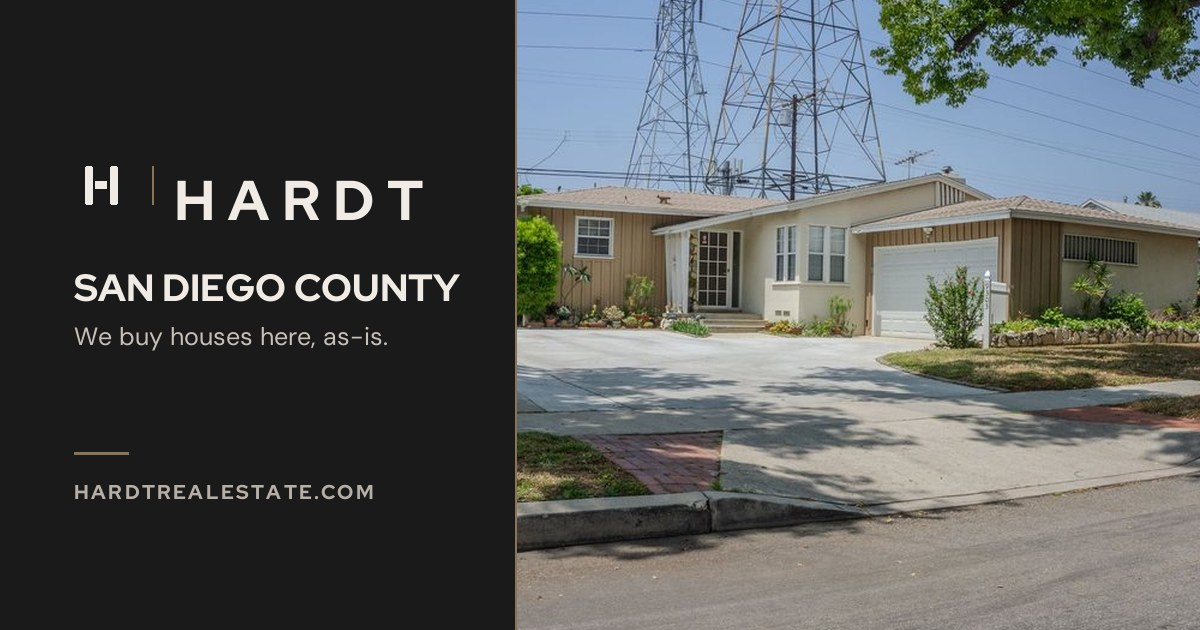
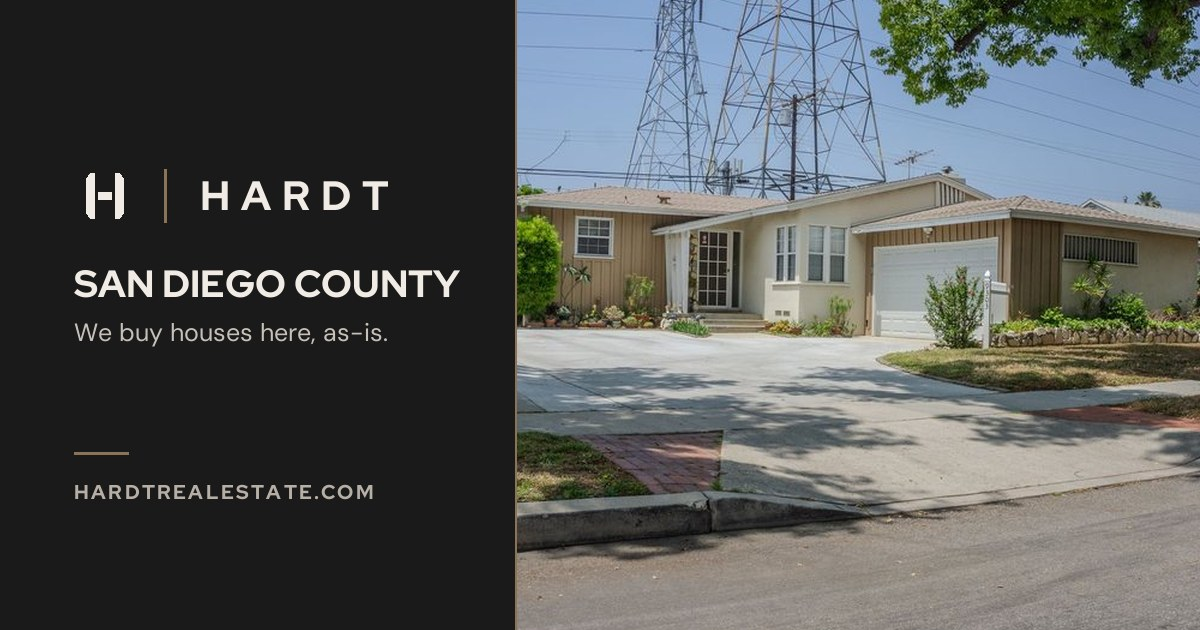
Share card: draw the real lockup instead of approximating it
The mark and wordmark were not sitting on a common axis, and the
proportions were wrong: the wordmark rendered at roughly the mark's
height when the brand sets it at two thirds, so the two competed
rather than locking together.

The mark is now traced from the site's own inline SVG, angled shoulders
and 3-unit stroke included, and the whole lockup derives from the
CSS: gap 14/30 of the mark, hairline 1x26/30, wordmark 20/30 at .27em
tracking, everything centred on one line the way align-items:center
does it. The wordmark is centred on its ink box rather than its line
box, which is what actually fixes the optical drift.

Measured against the live header: hairline-to-mark 1.174 against the
site's 1.156, wordmark cap-to-mark 0.630 against 0.640, and the three
elements share a centre line to within half a pixel.

Changed region(s): [[0.0617, 0.2714, 0.37, 0.3619], [0.0617, 0.4222, 0.4008, 0.4825], [0.0617, 0.5127, 0.3392, 0.573]]

diff --git a/tools/make_og.py b/tools/make_og.py
@@ -86,33 +86,59 @@ def _tracked(d, xy, text, font, fill, track):
     return x
 
 
-def _mark(d, x, y, s=54):
-    """The H mark: two uprights and a centre bar, same geometry as the
-    site's inline SVG, drawn at card scale."""
-    u = s / 100.0
-    for ox in (20 * u, 67 * u):
-        d.rounded_rectangle([x + ox, y + 14 * u, x + ox + 13 * u, y + 86 * u],
-                            radius=1.5, fill=CREAM)
-    d.rectangle([x + 39 * u, y + 44 * u, x + 61 * u, y + 56 * u], fill=CREAM)
+def _mark(d, x, cy, m):
+    """The H mark, traced from the site's inline SVG rather than approximated.
+
+    Same viewBox geometry (0..100), same angled shoulders on both uprights,
+    and the same 3-unit stroke the SVG carries, which fattens every shape by
+    1.5 units a side. Drawn centred on cy so it shares an axis with the
+    hairline and the wordmark, exactly as .lockup does with align-items:center.
+    """
+    u = m / 100.0
+    top = cy - 50 * u                       # glyph spans 0..100 in the viewBox
+    P = lambda pts: [(x + px * u, top + py * u) for px, py in pts]
+    sw = max(1, round(3 * u))
+    left  = [(20, 21), (27, 14), (33, 14), (33, 86), (27, 86), (20, 79)]
+    right = [(80, 21), (73, 14), (67, 14), (67, 86), (73, 86), (80, 79)]
+    for poly in (left, right):
+        d.polygon(P(poly), fill=CREAM, outline=CREAM, width=sw)
+    d.rectangle(P([(39, 44), (61, 56)]), fill=CREAM, outline=CREAM, width=sw)
+
+
+def _lockup(d, x, cy, m=62):
+    """Mark, bronze hairline, wordmark: one horizontal lockup on a shared
+    centre line. Every proportion is the site's own, scaled from the mark:
+    gap 14/30, hairline 1x26/30, wordmark 20/30 at .27em tracking."""
+    k = m / 30.0                            # the site draws the mark at 30px
+    gap, hair_w, hair_h = 14 * k, max(1, round(1 * k)), 26 * k
+    size = round(20 * k)
+    f = ImageFont.truetype(DISPLAY, size)
+    track = 0.27 * size
+
+    _mark(d, x, cy, m)
+    hx = x + m + gap
+    d.rectangle([hx, cy - hair_h / 2, hx + hair_w, cy + hair_h / 2], fill=BRONZE)
+
+    wx = hx + hair_w + gap + 2 * k          # .lockup__word padding-left:2px
+    # centre the wordmark by its own ink box, not by its line box
+    x0, y0, x1, y1 = f.getbbox("HARDT")
+    _tracked(d, (wx, cy - (y0 + y1) / 2), "HARDT", f, CREAM, track)
+    return cy + hair_h / 2
 
 
 def build(slot, photo, line, is_place):
     im = _compose(_bg(photo))
     d = ImageDraw.Draw(im)
-    f_word = ImageFont.truetype(DISPLAY, 56)
     f_line = ImageFont.truetype(SERIF, 34)
     f_place = ImageFont.truetype(DISPLAY, 38)
     f_url = ImageFont.truetype(DISPLAY, 20)
 
     x = 74
-    # lockup: mark, bronze hairline, wordmark
-    my = 158
-    _mark(d, x, my, 54)
-    d.rectangle([x + 78, my + 8, x + 79, my + 46], fill=BRONZE)
-    _tracked(d, (x + 100, my + 4), "HARDT", f_word, CREAM, 13)
+    lock_cy = 196                    # lockup sits on this centre line
+    _lockup(d, x, lock_cy, 62)
 
     # one line: the serif tagline, or the place name in display caps
-    ly = my + 104
+    ly = lock_cy + 62
     if is_place:
         d.text((x, ly), line.upper(), font=f_place, fill=CREAM)
         d.text((x, ly + 58), "We buy houses here, as-is.",
